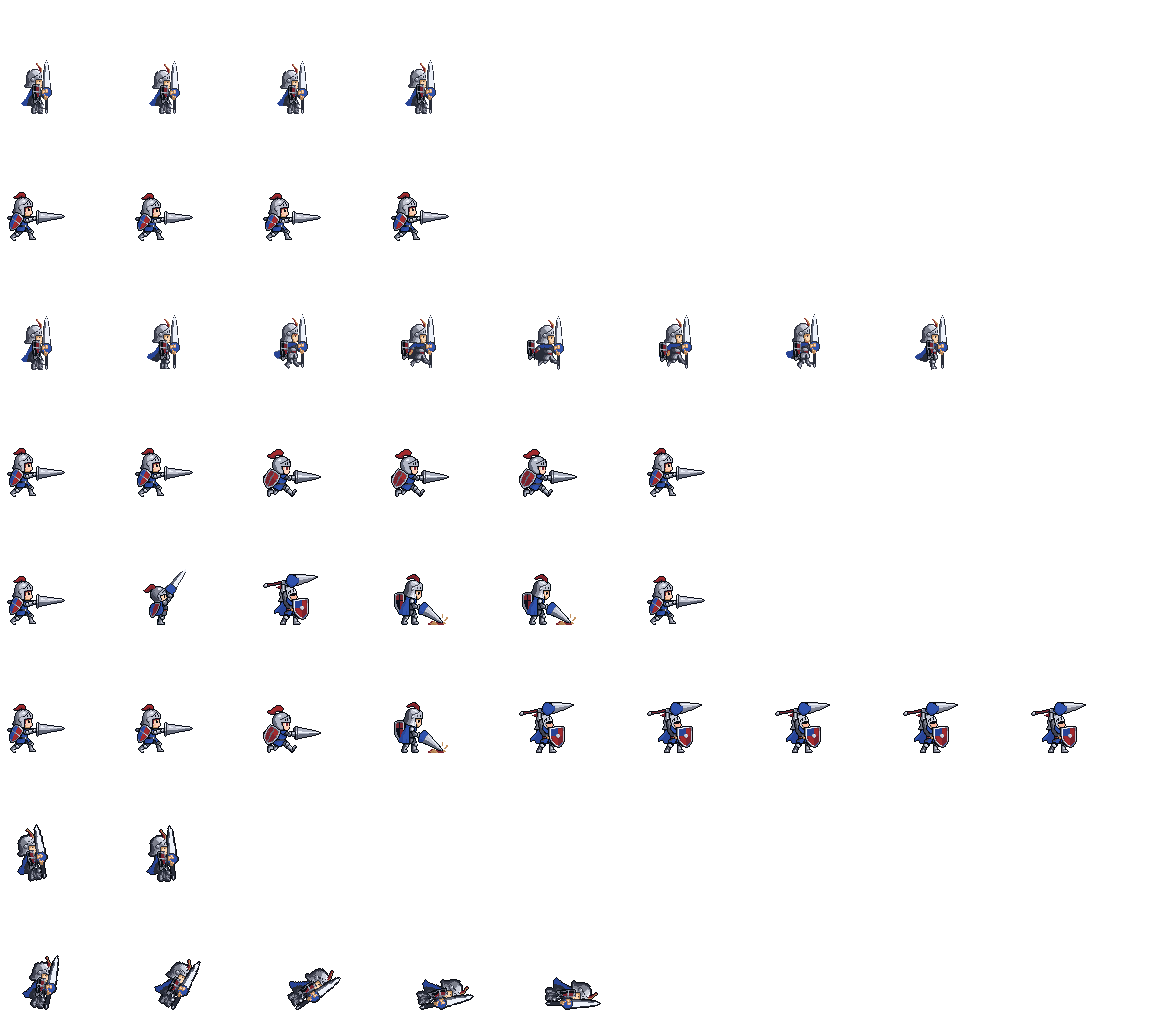
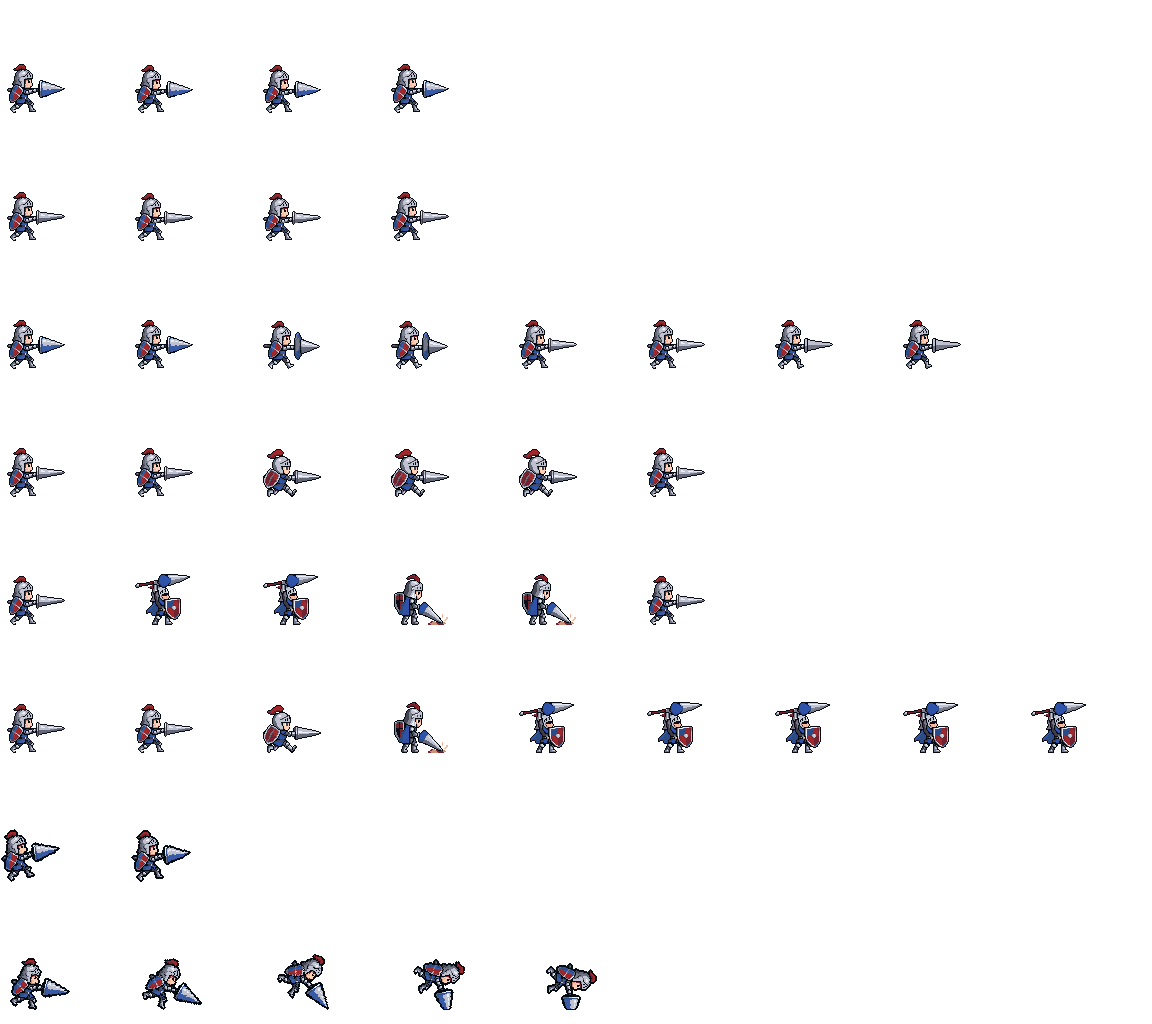
랜서 걷기·평타 굵은 원뿔 랜스로(키 재편집), 천마장군 방패 통일을 평타만으로 (PixelLab 10)

diff --git a/src/sprites/meta.js b/src/sprites/meta.js
@@ -6,7 +6,7 @@ const SHEET_META = {
   archmage: {"w":75,"h":75,"foot":[26,69],"anims":{"idle":{"row":0,"frames":4,"fps":4,"loop":true},"guard":{"row":1,"frames":4,"fps":4,"loop":true},"walk":{"row":2,"frames":8,"fps":10,"loop":true},"atkA":{"row":3,"frames":7,"fps":16,"loop":false,"hit":3},"atkB":{"row":4,"frames":7,"fps":16,"loop":false,"hit":4},"cast":{"row":5,"frames":7,"fps":10,"loop":false,"key":"bowA","val":[-0.2,-0.2,-0.7,-1.4,-1.4,0.7,1.2]},"hurt":{"row":6,"frames":2,"fps":12,"loop":false},"death":{"row":7,"frames":5,"fps":8,"loop":false}},"pts":{"idle":[[47,30,27,33],[47,30,27,33],[47,30,27,34],[47,30,27,34]],"guard":[[47,30,27,34],[47,30,27,34],[47,31,27,34],[47,31,27,34]],"walk":[[52,32,26,34],[49,30,44,33],[45,28,30,31],[37,29,34,30],[33,30,34,28],[39,28,36,29],[44,29,26,31],[49,30,26,33]],"atkA":[[47,30,27,33],[0,23,14,34],[73,38,26,34],[74,48,30,36],[74,50,30,36],[74,50,29,35],[59,31,27,34]],"atkB":[[54,36,25,36],[45,2,34,18],[9,8,23,25],[74,51,30,35],[73,72,39,44],[71,74,37,42],[65,43,28,36]],"cast":[[33,31,33,30],[32,30,32,30],[21,9,24,8],[47,2,34,18],[34,0,32,0],[74,41,29,34],[73,73,41,43]],"hurt":[[45,30,25,33],[46,30,26,33]],"death":[[45,30,25,33],[45,30,12,33],[45,30,15,20],[45,30,16,31],[45,30,24,35]]},"v":"de51523a"},
   archon: {"w":64,"h":64,"foot":[28,59],"anims":{"idle":{"row":0,"frames":2,"fps":3,"loop":true},"walk":{"row":1,"frames":4,"fps":8,"loop":true},"atkA":{"row":2,"frames":6,"fps":12,"loop":false,"hit":2},"cast":{"row":3,"frames":4,"fps":6,"loop":true},"hurt":{"row":4,"frames":2,"fps":12,"loop":false}},"pts":{"idle":[[37,37,37,11],[37,37,37,12]],"walk":[[37,37,42,10],[37,37,42,10],[37,37,42,10],[37,37,42,10]],"atkA":[[37,37,37,11],[37,37,44,6],[37,37,35,19],[37,37,27,24],[37,37,27,24],[37,37,37,11]],"cast":[[37,37,37,11],[37,37,37,12],[37,37,37,11],[37,37,37,13]],"hurt":[[37,37,35,11],[37,37,36,11]]},"v":"8ca85376"},
   blademaster: {"w":64,"h":64,"foot":[28,59],"anims":{"idle":{"row":0,"frames":2,"fps":3,"loop":true},"walk":{"row":1,"frames":4,"fps":8,"loop":true},"atkA":{"row":2,"frames":6,"fps":12,"loop":false,"hit":2},"cast":{"row":3,"frames":6,"fps":8,"loop":true},"hurt":{"row":4,"frames":2,"fps":12,"loop":false}},"pts":{"idle":[[37,37,32,9],[37,37,32,10]],"walk":[[37,37,32,9],[37,37,32,10],[37,37,32,9],[37,37,32,11]],"atkA":[[37,37,32,9],[37,37,40,10],[37,37,30,13],[37,37,34,21],[37,37,34,21],[37,37,32,9]],"cast":[[37,37,32,9],[37,37,32,9],[37,37,31,8],[37,37,31,8],[37,37,32,9],[37,37,32,9]],"hurt":[[37,37,30,9],[37,37,31,9]]},"v":"13776c78"},
-  cavalier: {"w":100,"h":100,"foot":[28,87],"anims":{"idle":{"row":0,"frames":4,"fps":6,"loop":true},"guard":{"row":1,"frames":4,"fps":8,"loop":true},"walk":{"row":2,"frames":8,"fps":10,"loop":true},"atkA":{"row":3,"frames":6,"fps":14,"loop":false,"hit":2},"atkB":{"row":4,"frames":6,"fps":14,"loop":false,"hit":2},"cast":{"row":5,"frames":9,"fps":10,"loop":true,"key":"wa","val":[-1.57,-1.2,-0.8,-0.4,0,0.4,0.8,1.2,1.57],"wrap":false},"hurt":{"row":6,"frames":2,"fps":12,"loop":false},"death":{"row":7,"frames":5,"fps":8,"loop":false}},"pts":{"idle":[[40,72,36,47],[40,73,36,48],[40,73,36,48],[40,72,36,47]],"guard":[[50,69,16,50],[50,69,16,51],[50,69,16,51],[50,69,16,50]],"walk":[[40,72,36,47],[40,71,36,46],[40,70,36,45],[40,71,36,46],[40,72,36,47],[40,71,36,46],[40,70,36,45],[40,71,36,46]],"atkA":[[50,69,16,50],[50,69,16,50],[50,73,17,51],[50,73,17,51],[50,73,17,51],[50,69,16,50]],"atkB":[[50,69,16,50],[44,46,44,44],[48,51,32,48],[49,82,23,48],[49,82,23,48],[50,69,16,50]],"cast":[[50,69,16,50],[50,69,16,50],[50,73,17,51],[49,82,23,48],[48,51,32,48],[48,51,32,48],[48,51,32,48],[48,51,32,48],[48,51,32,48]],"hurt":[[37,69,28,44],[39,71,32,44]],"death":[[45,52,44,46],[56,51,47,49],[66,64,49,56],[69,78,50,65],[66,76,34,63]]},"v":"ad21efbd"},
+  cavalier: {"w":100,"h":100,"foot":[28,87],"anims":{"idle":{"row":0,"frames":4,"fps":6,"loop":true},"guard":{"row":1,"frames":4,"fps":8,"loop":true},"walk":{"row":2,"frames":8,"fps":10,"loop":true},"atkA":{"row":3,"frames":6,"fps":14,"loop":false,"hit":2},"atkB":{"row":4,"frames":6,"fps":14,"loop":false,"hit":2},"cast":{"row":5,"frames":9,"fps":10,"loop":true,"key":"wa","val":[-1.57,-1.2,-0.8,-0.4,0,0.4,0.8,1.2,1.57],"wrap":false},"hurt":{"row":6,"frames":2,"fps":12,"loop":false},"death":{"row":7,"frames":5,"fps":8,"loop":false}},"pts":{"idle":[[50,69,16,50],[50,69,16,51],[50,69,16,51],[50,69,16,50]],"guard":[[50,69,16,50],[50,69,16,51],[50,69,16,51],[50,69,16,50]],"walk":[[50,69,16,50],[50,69,16,50],[49,70,18,51],[49,70,18,51],[50,69,16,50],[50,69,16,50],[50,69,16,50],[50,69,16,50]],"atkA":[[50,69,16,50],[50,69,16,50],[50,73,17,51],[50,73,17,51],[50,73,17,51],[50,69,16,50]],"atkB":[[50,69,16,50],[48,51,32,48],[48,51,32,48],[49,82,23,48],[49,82,23,48],[50,69,16,50]],"cast":[[50,69,16,50],[50,69,16,50],[50,73,17,51],[49,82,23,48],[48,51,32,48],[48,51,32,48],[48,51,32,48],[48,51,32,48],[48,51,32,48]],"hurt":[[46,62,11,48],[48,66,13,48]],"death":[[54,74,23,48],[56,82,35,48],[55,80,45,45],[62,57,40,49],[66,64,44,52]]},"v":"2f80f7b1"},
   champion: {"w":64,"h":64,"foot":[32,58],"anims":{"idle":{"row":0,"frames":4,"fps":6,"loop":true},"guard":{"row":1,"frames":4,"fps":8,"loop":true},"walk":{"row":2,"frames":6,"fps":10,"loop":true},"dash":{"row":3,"frames":2,"fps":12,"loop":true},"atkA":{"row":4,"frames":4,"fps":14,"loop":false,"hit":1},"atkB":{"row":5,"frames":4,"fps":14,"loop":false,"hit":1},"charge":{"row":6,"frames":4,"fps":10,"loop":true},"release":{"row":7,"frames":3,"fps":12,"loop":false,"hit":1},"skillA":{"row":8,"frames":4,"fps":14,"loop":true,"hit":0},"skillB":{"row":9,"frames":4,"fps":14,"loop":false,"hit":1},"awaken":{"row":10,"frames":6,"fps":10,"loop":false},"hurt":{"row":11,"frames":2,"fps":12,"loop":false},"death":{"row":12,"frames":5,"fps":8,"loop":false},"sit":{"row":13,"frames":2,"fps":2,"loop":true}},"pts":{"idle":[[51,40,30,19],[51,41,30,20],[51,41,30,20],[51,40,30,19]],"guard":[[48,41,30,21],[48,42,30,22],[48,42,30,22],[48,41,30,21]],"walk":[[49,38,28,18],[49,40,28,17],[49,40,29,17],[49,41,29,18],[48,41,29,17],[49,40,29,17]],"dash":[[52,39,41,22],[42,27,31,19]],"atkA":[[47,42,29,22],[62,35,30,16],[62,35,30,16],[54,39,31,19]],"atkB":[[53,42,32,20],[62,35,30,17],[62,35,30,17],[54,40,30,20]],"charge":[[53,42,32,20],[51,47,34,20],[47,49,33,18],[46,41,33,18]],"release":[[51,47,34,20],[62,35,30,17],[62,35,30,17]],"skillA":[[62,35,30,16],[54,39,31,19],[62,35,30,17],[54,40,30,20]],"skillB":[[47,49,33,18],[50,18,44,11],[50,18,44,11],[48,41,30,21]],"awaken":[[46,41,33,18],[48,38,33,21],[46,30,32,22],[46,31,32,23],[46,30,32,22],[48,38,33,21]],"hurt":[[51,40,32,21],[52,40,33,21]],"death":[[50,49,32,19],[49,51,34,19],[48,51,34,21],[52,49,37,30],[56,51,39,37]],"sit":[[47,51,29,20],[46,50,28,22]]},"v":"dca567aa"},
   cryomancer: {"w":75,"h":75,"foot":[26,69],"anims":{"idle":{"row":0,"frames":4,"fps":4,"loop":true},"guard":{"row":1,"frames":4,"fps":4,"loop":true},"walk":{"row":2,"frames":8,"fps":10,"loop":true},"atkA":{"row":3,"frames":7,"fps":16,"loop":false,"hit":3},"atkB":{"row":4,"frames":7,"fps":16,"loop":false,"hit":4},"cast":{"row":5,"frames":7,"fps":10,"loop":false,"key":"bowA","val":[-0.2,-0.2,-0.7,-1.4,-1.4,0.7,1.2]},"hurt":{"row":6,"frames":2,"fps":12,"loop":false},"death":{"row":7,"frames":5,"fps":8,"loop":false}},"pts":{"idle":[[43,44,28,33],[43,44,28,33],[43,45,28,34],[43,45,28,34]],"guard":[[43,45,28,34],[43,45,28,34],[43,46,28,34],[43,46,28,34]],"walk":[[45,45,33,34],[44,44,30,31],[42,44,28,30],[37,44,30,31],[35,46,29,33],[38,44,30,31],[41,44,28,31],[44,45,28,32]],"atkA":[[43,44,28,33],[6,37,23,35],[58,41,27,34],[67,46,37,36],[67,46,37,36],[61,52,34,35],[51,46,29,34]],"atkB":[[46,49,29,37],[30,16,30,16],[21,15,23,15],[62,49,35,37],[60,65,33,40],[62,64,33,39],[53,53,30,35]],"cast":[[33,46,27,33],[30,45,28,32],[26,21,25,22],[34,12,30,13],[32,12,32,12],[68,41,31,34],[61,62,33,38]],"hurt":[[41,44,27,33],[42,44,27,33]],"death":[[41,44,27,33],[41,44,16,32],[41,44,23,37],[41,44,20,34],[41,44,20,37]]},"v":"a6f70bb1"},
   deadeye: {"w":75,"h":75,"foot":[33,67],"anims":{"idle":{"row":0,"frames":4,"fps":6,"loop":true},"guard":{"row":1,"frames":4,"fps":8,"loop":true},"walk":{"row":2,"frames":8,"fps":10,"loop":true},"atkA":{"row":3,"frames":8,"fps":14,"loop":false,"hit":5},"atkB":{"row":4,"frames":8,"fps":14,"loop":false,"hit":5},"cast":{"row":5,"frames":4,"fps":10,"loop":true,"key":"pull","val":[0,4.5,7.5,12]},"castUp":{"row":6,"frames":2,"fps":10,"loop":true,"key":"pull","val":[6,12]},"hurt":{"row":7,"frames":2,"fps":12,"loop":false},"death":{"row":8,"frames":5,"fps":8,"loop":false}},"pts":{"idle":[[48,41,40,24],[48,42,40,25],[48,42,40,25],[48,41,40,24]],"guard":[[48,42,40,25],[48,43,40,26],[48,43,40,26],[48,42,40,25]],"walk":[[49,41,30,27],[49,39,30,26],[49,38,30,25],[49,39,30,26],[49,41,30,27],[48,39,30,26],[48,38,30,25],[49,39,30,26]],"atkA":[[48,41,40,24],[47,42,39,23],[46,42,38,23],[44,42,37,23],[44,42,36,23],[44,41,27,27],[44,41,27,27],[48,41,40,24]],"atkB":[[45,43,28,19],[46,51,25,18],[44,51,23,19],[44,51,21,20],[44,51,20,20],[47,49,20,20],[45,44,24,28],[51,33,28,27]],"cast":[[48,41,40,24],[47,42,39,23],[46,42,38,23],[44,42,36,23]],"castUp":[[44,51,23,19],[44,51,20,20]],"hurt":[[46,41,38,24],[47,41,39,24]],"death":[[47,41,39,24],[37,52,21,24],[35,58,11,31],[31,53,2,40],[30,56,7,42]]},"v":"e93e26a3"},
@@ -31,7 +31,7 @@ const SHEET_META = {
   qigongB: {"w":96,"h":96,"foot":[33,87],"noLean":true,"anims":{"idle":{"row":0,"frames":4,"fps":4,"loop":true},"guard":{"row":1,"frames":4,"fps":6,"loop":true},"walk":{"row":2,"frames":4,"fps":6,"loop":true},"dash":{"row":3,"frames":2,"fps":12,"loop":true},"atkA":{"row":4,"frames":7,"fps":16,"loop":false,"hit":2},"atkB":{"row":5,"frames":8,"fps":16,"loop":false,"hit":3},"charge":{"row":6,"frames":4,"fps":10,"loop":true},"release":{"row":7,"frames":3,"fps":12,"loop":false,"hit":1},"skillA":{"row":8,"frames":4,"fps":12,"loop":false},"skillB":{"row":9,"frames":4,"fps":12,"loop":false},"hurt":{"row":10,"frames":2,"fps":12,"loop":false},"death":{"row":11,"frames":5,"fps":8,"loop":false},"sit":{"row":12,"frames":2,"fps":2,"loop":true}},"pts":{"idle":[[43,65,34,42],[43,65,34,42],[43,66,34,43],[43,66,34,43]],"guard":[[50,65,35,45],[50,65,35,45],[50,66,35,46],[50,66,35,46]],"walk":[[50,62,35,42],[50,63,35,43],[56,62,40,40],[56,63,40,41]],"dash":[[50,62,35,42],[56,62,40,40]],"atkA":[[50,65,35,45],[44,67,34,46],[67,66,42,47],[67,66,42,47],[59,64,36,46],[50,63,35,45],[50,63,36,45]],"atkB":[[50,63,35,45],[47,64,32,46],[44,66,31,47],[66,68,41,48],[67,68,42,48],[67,68,41,48],[56,63,36,46],[50,63,35,45]],"charge":[[47,64,32,46],[44,66,31,47],[47,64,32,46],[44,66,31,47]],"release":[[66,68,41,48],[67,68,42,48],[67,68,41,48]],"skillA":[[47,64,32,46],[44,66,31,47],[66,68,41,48],[67,68,42,48]],"skillB":[[47,64,32,46],[44,66,31,47],[44,66,31,47],[47,64,32,46]],"hurt":[[41,65,32,42],[42,65,33,42]],"death":[[41,65,32,42],[34,74,16,41],[42,74,23,57],[47,72,33,67],[46,71,24,67]],"sit":[[42,72,37,68],[42,73,37,69]]},"v":"4eac03e0"},
   ranger: {"w":75,"h":75,"foot":[33,67],"anims":{"idle":{"row":0,"frames":4,"fps":6,"loop":true},"guard":{"row":1,"frames":4,"fps":8,"loop":true},"walk":{"row":2,"frames":8,"fps":10,"loop":true},"atkA":{"row":3,"frames":8,"fps":14,"loop":false,"hit":5},"atkB":{"row":4,"frames":8,"fps":14,"loop":false,"hit":5},"cast":{"row":5,"frames":4,"fps":10,"loop":true,"key":"pull","val":[0,4.5,7.5,12]},"castUp":{"row":6,"frames":2,"fps":10,"loop":true,"key":"pull","val":[6,12]},"hurt":{"row":7,"frames":2,"fps":12,"loop":false},"death":{"row":8,"frames":5,"fps":8,"loop":false}},"pts":{"idle":[[50,43,22,28],[50,44,22,29],[50,44,22,29],[50,43,22,28]],"guard":[[50,44,22,29],[50,44,22,30],[50,44,22,30],[50,44,22,29]],"walk":[[47,49,20,30],[46,48,20,29],[48,46,20,27],[46,48,20,28],[41,44,21,30],[47,48,20,29],[46,47,20,27],[48,46,20,28]],"atkA":[[50,43,22,28],[49,44,22,28],[50,44,20,29],[48,44,19,29],[48,44,18,30],[48,46,20,29],[48,46,20,29],[50,43,22,28]],"atkB":[[46,46,30,26],[46,46,30,26],[46,45,30,27],[45,46,30,27],[45,46,30,27],[46,44,29,26],[48,48,33,28],[48,48,33,28]],"cast":[[50,43,22,28],[49,44,22,28],[50,44,20,29],[48,44,18,30]],"castUp":[[46,45,30,27],[45,46,30,27]],"hurt":[[48,43,20,28],[49,43,21,28]],"death":[[49,43,21,28],[39,44,30,28],[35,58,12,34],[30,57,7,40],[30,58,6,40]]},"v":"b06755ac"},
   siegeMaster: {"w":100,"h":100,"foot":[45,90],"anims":{"idle":{"row":0,"frames":4,"fps":6,"loop":true},"guard":{"row":1,"frames":4,"fps":8,"loop":true},"walk":{"row":2,"frames":8,"fps":10,"loop":true},"atkA":{"row":3,"frames":8,"fps":14,"loop":false,"hit":3},"atkB":{"row":4,"frames":8,"fps":14,"loop":false,"hit":4},"cast":{"row":5,"frames":2,"fps":10,"loop":true,"key":"pull","val":[0,4.5]},"castUp":{"row":6,"frames":2,"fps":10,"loop":true,"key":"pull","val":[6,12]},"hurt":{"row":7,"frames":2,"fps":12,"loop":false},"death":{"row":8,"frames":5,"fps":8,"loop":false}},"pts":{"idle":[[61,69,46,48],[61,69,46,48],[61,69,46,48],[61,69,46,48]],"guard":[[61,69,46,48],[61,70,46,49],[61,70,46,49],[61,69,46,48]],"walk":[[72,64,46,48],[72,64,46,47],[72,63,46,47],[72,63,46,47],[72,64,46,48],[72,64,46,47],[72,63,46,47],[72,63,46,47]],"atkA":[[61,69,46,48],[62,66,47,48],[62,66,47,48],[59,66,44,48],[60,66,45,48],[61,66,45,48],[61,66,46,48],[61,69,46,48]],"atkB":[[65,67,44,49],[64,58,43,49],[58,64,41,51],[55,72,41,53],[55,66,38,51],[59,65,40,51],[61,63,41,49],[62,64,44,48]],"cast":[[61,69,46,48],[62,66,47,48]],"castUp":[[64,58,43,49],[55,72,41,53]],"hurt":[[59,69,44,48],[60,69,45,48]],"death":[[60,69,45,48],[52,76,34,48],[48,76,23,51],[44,73,13,61],[43,79,23,63]]},"v":"d228c061"},
-  skyGeneral: {"w":100,"h":100,"foot":[28,87],"anims":{"idle":{"row":0,"frames":4,"fps":6,"loop":true},"guard":{"row":1,"frames":4,"fps":8,"loop":true},"walk":{"row":2,"frames":8,"fps":10,"loop":true},"atkA":{"row":3,"frames":6,"fps":14,"loop":false,"hit":2},"atkB":{"row":4,"frames":6,"fps":14,"loop":false,"hit":2},"cast":{"row":5,"frames":9,"fps":10,"loop":true,"key":"wa","val":[-1.57,-1.2,-0.8,-0.4,0,0.4,0.8,1.2,1.57],"wrap":false},"hurt":{"row":6,"frames":2,"fps":12,"loop":false},"death":{"row":7,"frames":5,"fps":8,"loop":false}},"pts":{"idle":[[48,67,32,42],[48,68,32,42],[48,68,32,42],[48,67,32,42]],"guard":[[49,72,22,48],[49,73,22,48],[49,73,22,48],[49,72,22,48]],"walk":[[48,67,32,42],[48,70,32,41],[47,82,32,41],[46,76,32,41],[46,80,32,42],[47,81,32,41],[47,73,27,48],[48,69,27,48]],"atkA":[[49,72,22,48],[49,72,22,48],[49,72,22,48],[49,72,22,48],[49,72,22,48],[49,72,22,48]],"atkB":[[49,72,22,48],[49,45,48,44],[49,45,48,44],[44,82,24,48],[44,82,24,48],[49,72,22,48]],"cast":[[49,72,22,48],[49,72,22,48],[49,72,22,48],[49,72,22,48],[44,82,24,48],[44,82,24,48],[44,82,24,48],[44,82,24,48],[44,82,24,48]],"hurt":[[46,82,27,39],[47,71,32,38]],"death":[[53,63,37,36],[59,44,46,37],[71,58,57,46],[74,74,36,50],[73,79,41,52]]},"v":"312606b1"},
+  skyGeneral: {"w":100,"h":100,"foot":[28,87],"anims":{"idle":{"row":0,"frames":4,"fps":6,"loop":true},"guard":{"row":1,"frames":4,"fps":8,"loop":true},"walk":{"row":2,"frames":8,"fps":10,"loop":true},"atkA":{"row":3,"frames":6,"fps":14,"loop":false,"hit":2},"atkB":{"row":4,"frames":6,"fps":14,"loop":false,"hit":2},"cast":{"row":5,"frames":9,"fps":10,"loop":true,"key":"wa","val":[-1.57,-1.2,-0.8,-0.4,0,0.4,0.8,1.2,1.57],"wrap":false},"hurt":{"row":6,"frames":2,"fps":12,"loop":false},"death":{"row":7,"frames":5,"fps":8,"loop":false}},"pts":{"idle":[[48,67,27,49],[48,68,27,50],[48,68,27,50],[48,67,27,49]],"guard":[[49,72,22,48],[49,73,22,48],[49,73,22,48],[49,72,22,48]],"walk":[[48,67,27,49],[48,70,27,48],[47,82,27,48],[46,76,27,48],[46,80,27,49],[47,81,27,48],[47,73,27,48],[48,69,27,48]],"atkA":[[49,72,22,48],[49,72,22,48],[49,72,22,48],[49,72,22,48],[49,72,22,48],[49,72,22,48]],"atkB":[[49,72,22,48],[45,48,44,46],[45,48,44,46],[44,82,24,48],[44,82,24,48],[49,72,22,48]],"cast":[[45,48,44,46],[45,48,44,46],[45,48,44,46],[49,72,22,48],[44,82,24,48],[44,82,24,48],[44,82,24,48],[44,82,24,48],[44,82,24,48]],"hurt":[[46,82,22,47],[47,71,24,46]],"death":[[53,63,33,42],[58,65,41,42],[61,57,50,48],[66,70,36,50],[66,76,41,52]]},"v":"97412bbb"},
   squire: {"w":64,"h":64,"foot":[28,59],"anims":{"idle":{"row":0,"frames":2,"fps":3,"loop":true},"walk":{"row":1,"frames":4,"fps":8,"loop":true},"atkA":{"row":2,"frames":7,"fps":12,"loop":false,"hit":2},"cast":{"row":3,"frames":6,"fps":8,"loop":true},"hurt":{"row":4,"frames":2,"fps":12,"loop":false}},"pts":{"idle":[[37,37,30,23],[37,37,30,24]],"walk":[[37,37,30,23],[37,37,30,23],[37,37,30,23],[37,37,30,23]],"atkA":[[37,37,30,23],[37,37,36,8],[37,37,30,20],[37,37,34,22],[37,37,34,22],[37,37,30,24],[37,37,30,23]],"cast":[[37,37,30,23],[37,37,31,18],[37,37,31,18],[37,37,43,6],[37,37,43,6],[37,37,31,18]],"hurt":[[37,37,28,23],[37,37,29,23]]},"v":"5d7633c8"},
   striker: {"w":64,"h":64,"foot":[32,58],"anims":{"idle":{"row":0,"frames":4,"fps":6,"loop":true},"guard":{"row":1,"frames":4,"fps":8,"loop":true},"walk":{"row":2,"frames":6,"fps":10,"loop":true},"dash":{"row":3,"frames":2,"fps":12,"loop":true},"atkA":{"row":4,"frames":4,"fps":14,"loop":false,"hit":1},"atkB":{"row":5,"frames":4,"fps":14,"loop":false,"hit":1},"charge":{"row":6,"frames":4,"fps":10,"loop":true},"release":{"row":7,"frames":3,"fps":12,"loop":false,"hit":1},"skillA":{"row":8,"frames":4,"fps":14,"loop":true,"hit":0},"skillB":{"row":9,"frames":4,"fps":14,"loop":false,"hit":1},"hurt":{"row":10,"frames":2,"fps":12,"loop":false},"death":{"row":11,"frames":5,"fps":8,"loop":false},"sit":{"row":12,"frames":2,"fps":2,"loop":true}},"pts":{"idle":[[52,40,33,22],[52,41,33,23],[52,41,33,23],[52,40,33,22]],"guard":[[51,37,33,22],[51,38,33,23],[51,38,33,23],[51,37,33,22]],"walk":[[51,38,33,21],[51,40,33,20],[51,40,34,20],[51,41,34,21],[50,41,34,20],[51,40,33,19]],"dash":[[52,48,44,24],[40,33,34,23]],"atkA":[[50,38,32,23],[62,35,32,20],[62,35,32,20],[54,39,33,24]],"atkB":[[53,42,35,23],[61,34,33,21],[61,34,33,21],[54,40,34,24]],"charge":[[53,42,35,23],[51,47,37,23],[47,49,36,22],[46,41,36,22]],"release":[[51,47,37,23],[61,34,33,21],[61,34,33,21]],"skillA":[[62,35,32,20],[54,39,33,24],[61,34,33,21],[54,40,34,24]],"skillB":[[47,49,36,22],[50,17,44,9],[50,17,44,9],[51,37,33,22]],"hurt":[[51,40,33,24],[52,40,34,24]],"death":[[50,49,35,23],[49,51,36,24],[48,51,36,25],[52,49,40,35],[56,51,41,41]],"sit":[[47,51,34,22],[46,50,35,24]]},"v":"42b8a32e"},
   strikerB: {"w":96,"h":96,"foot":[33,87],"noLean":true,"anims":{"idle":{"row":0,"frames":4,"fps":4,"loop":true},"guard":{"row":1,"frames":4,"fps":6,"loop":true},"walk":{"row":2,"frames":4,"fps":6,"loop":true},"dash":{"row":3,"frames":2,"fps":12,"loop":true},"atkA":{"row":4,"frames":7,"fps":16,"loop":false,"hit":2},"atkB":{"row":5,"frames":8,"fps":16,"loop":false,"hit":3},"charge":{"row":6,"frames":4,"fps":10,"loop":true},"release":{"row":7,"frames":3,"fps":12,"loop":false,"hit":1},"skillA":{"row":8,"frames":4,"fps":12,"loop":false},"skillB":{"row":9,"frames":4,"fps":12,"loop":false},"hurt":{"row":10,"frames":2,"fps":12,"loop":false},"death":{"row":11,"frames":5,"fps":8,"loop":false},"sit":{"row":12,"frames":2,"fps":2,"loop":true}},"pts":{"idle":[[47,69,33,43],[47,69,33,43],[47,70,33,44],[47,70,33,44]],"guard":[[51,64,35,47],[51,64,35,47],[51,65,35,48],[51,65,35,48]],"walk":[[49,59,35,36],[49,60,35,37],[50,63,34,39],[50,64,34,40]],"dash":[[49,59,35,36],[50,63,34,39]],"atkA":[[51,64,35,47],[52,63,35,48],[67,66,36,49],[67,66,36,48],[62,66,35,48],[51,64,35,47],[50,64,35,47]],"atkB":[[50,64,35,47],[45,64,34,47],[63,66,40,48],[71,67,44,48],[71,67,44,48],[64,65,42,48],[52,63,36,47],[50,64,35,47]],"charge":[[45,64,34,47],[45,64,34,47],[50,64,35,47],[45,64,34,47]],"release":[[63,66,40,48],[71,67,44,48],[64,65,42,48]],"skillA":[[67,66,36,49],[71,67,44,48],[67,66,36,48],[71,67,44,48]],"skillB":[[45,64,34,47],[63,66,40,48],[71,67,44,48],[71,67,44,48]],"hurt":[[45,69,31,43],[46,69,32,43]],"death":[[45,69,31,43],[38,65,16,42],[43,71,19,52],[47,67,27,58],[45,68,27,59]],"sit":[[43,74,24,44],[42,73,24,45]]},"v":"07d173a5"},

diff --git a/dev/spear/key_assemble.py b/dev/spear/key_assemble.py
@@ -14,11 +14,13 @@ from wpn import line_fit
 SEQ = {'default': [4, 1, 2, 3, 3, 4]}   # 원본(정지 그림)은 키와 인상이 달라 뺀다 — 마무리 키(대기 자세)로 시작·끝 (용황 시험 교훈)
 # 용황: 합격 정지 그림(검은 머리)과 pixen 키(금발) 인상이 달라 원본을 빼고, 잘 나온 찌르기 키2 를 새 기준(dragonlord-key2-src64)으로 재편집한 대기·준비를 쓴다
 #  (검수 k1 3.00: 얼굴·머리색 튐, 준비 키 발치 꼬리 모양). 재편집 '들기'는 창이 두 자루라 안 씀
-SEQ_CLS = {'cavalier': {'thrust': [2, 2, 3, 3, 3, 2], 'slam': [('thrust', 2), 1, 2, 3, 3, ('thrust', 2)]},   # 2026-10-18 랜스가 칼처럼 → 굵은 원뿔 랜스로 재편집한 키(찌르기 2·3, 내리찍기 2·3) 위주
+SEQ_CLS = {'cavalier': {'thrust': [2, 2, 3, 3, 3, 2], 'slam': [('thrust', 2), 2, 2, 3, 3, ('thrust', 2)]},   # 들기 키1(가는 랜스) 뺌 — 재편집 들기는 몸이 돌아서 못 씀   # 2026-10-18 랜스가 칼처럼 → 굵은 원뿔 랜스로 재편집한 키(찌르기 2·3, 내리찍기 2·3) 위주
            'skyGeneral': {'thrust': ['key-thrust-4', 'key-lunge1', 'key-lunge2', 'key-lunge2', 'key-lunge1', 'key-thrust-4'],   # 찌르기 키2·3 손이 보호대 뒤에 가려 떠 보임 → 키4 기준 재편집 2장
                            'slam': ['key-thrust-4', 1, 1, 3, 3, 'key-thrust-4']},   # 내리찍기 키2·4 안 옴 → 들기 반복, 마무리는 찌르기 키4
            'dragonlord': {'thrust': ['key-ready', 'key-windup', 'dragonlord-key2-src64', 3, 3, 'key-ready'],
                           'slam': ['key-ready', 2, 2, 3, 3, 'key-ready']}}
+# 걷기를 키 자세로 바꾸는 직업 (2026-10-18 랜서: 예전 걷기 랜스가 가늘어 칼처럼) — 대기도 새 걷기 첫 장을 들썩여 다시 만든다
+WALK_KEYS = {'cavalier': ['key-walkL-1', 'key-walkL-1', 'key-walkL-2', 'key-walkL-2', 'key-walkL-3', 'key-walkL-3', 'key-walkL-4', 'key-walkL-4']}   # 랜스를 허리 높이로 앞에 겨눈 걷기 (세워 든 판은 칼처럼 읽혔다)
 WALK_DROP = {'warlord': [4, 6], 'dragoon': [2]}                      # 검사 세션 점검: 전쟁군주 walk5·7, 용기병 walk3 (1부터 센 번호)
 
 
@@ -41,6 +43,19 @@ def to_cell(cls, im):
     S, (fx, fy) = B.CELL[cls]; bb = im.getbbox(); P = im.load()
     cx = 32                       # 가로는 64칸 가운데 고정 (pixen 이 캐릭터 자리를 대체로 지킨다 — 발 구간으로 재면 돌진·타격 자세에서 몸이 칸 밖으로 밀렸다)
     o = Image.new('RGBA', (S, S)); o.alpha_composite(im, (fx - cx, fy - (bb[3] - 1))); return o
+
+
+def silver_lance(im):
+    """몸 앞쪽(가운데 +6칸 밖) 밝은 하늘색 칸 → 같은 밝기의 은색 (재편집 걷기 키 중 원뿔이 하늘색으로 나온 장이 있다). 파란 보호대(어두운 파랑)는 둔다"""
+    P = im.load(); W, H = im.size
+    pts = [(x, y) for y in range(H) for x in range(W) if P[x, y][3]]
+    if not pts: return im
+    xs = sorted(x for x, _ in pts); xm = xs[len(xs) // 2]
+    for x, y in pts:
+        r, g, b, a = P[x, y]
+        if x > xm + 6 and b > r + 30 and (r + g + b) / 3 > 120:
+            l = round(0.3 * r + 0.59 * g + 0.11 * b); P[x, y] = (l, min(255, l + 4), min(255, l + 14), a)
+    return im
 
 
 def wpn_angle(im):
@@ -69,6 +84,12 @@ def run(cls):
             im = key_img(cls, atk, k)
             if im is None: im = key_img(cls, atk, 'src')
             f = to_cell(cls, im); f.save(os.path.join(dst, f'{row}-{n}.png')); cand.append((wpn_angle(f), f))
+    if cls in WALK_KEYS:
+        for p in glob.glob(os.path.join(dst, 'walk-*.png')) + glob.glob(os.path.join(dst, 'idle-*.png')): os.remove(p)
+        ws = [silver_lance(to_cell(cls, key_img(cls, None, k))) for k in WALK_KEYS[cls]]
+        for i, im in enumerate(ws): im.save(os.path.join(dst, f'walk-{i}.png'))
+        up = B.bob(ws[0], 112 - 18, 1)
+        for i, im in enumerate((ws[0], up, up, ws[0])): im.save(os.path.join(dst, f'idle-{i}.png'))
     if cls in WALK_DROP:
         ws = sorted(glob.glob(os.path.join(dst, 'walk-*.png')), key=lambda p: int(p.rsplit('-', 1)[1][:-4]))
         keep = [Image.open(p).convert('RGBA') for i, p in enumerate(ws) if i not in WALK_DROP[cls]]

diff --git a/dev/spear/fix_lance_shield.py b/dev/spear/fix_lance_shield.py
@@ -11,6 +11,7 @@ from wpn import line_fit
 OUT, SH, MID, HI = (40, 44, 56), (96, 104, 124), (162, 170, 188), (236, 240, 248)
 hls = lambda c: colorsys.rgb_to_hls(c[0] / 255, c[1] / 255, c[2] / 255)
 ROWS = ('atkA', 'atkB', 'cast', 'walk', 'idle')
+SHIELD_ROWS = ('atkA', 'atkB', 'cast')   # 방패 통일은 평타·시전만 — 걷기는 방패가 작게 보여 덩어리를 잘못 잡고 얼굴 위에 큰 방패를 얹었다
 
 
 def comps(pts):
@@ -118,7 +119,7 @@ def fix_shield(im, ref):
 
 if __name__ == '__main__':
     what, cls = sys.argv[1], sys.argv[2]
-    fs = [f for r in ROWS for f in glob.glob(os.path.join(HERE, 'frames', cls, f'{r}-*.png'))]
+    fs = [f for r in (ROWS if what == 'lance' else SHIELD_ROWS) for f in glob.glob(os.path.join(HERE, 'frames', cls, f'{r}-*.png'))]
     ref = ref_shield(cls)[0] if what == 'shield' else None
     n = 0
     for f in fs:

diff --git a/dev/spear/plx.py b/dev/spear/plx.py
@@ -9,7 +9,7 @@ sys.path.insert(0, os.path.join(HERE, '..', 'pixellab'))
 from pl import call
 
 CAP = 170          # 로드맵 승인: 원형 마네킹 usage 11 + 기준 그림 정리 직업당 1회 7 (2026-10-17) + v11 3등신 재정리 4 (2026-10-17, 재시도 0) + v12 얼굴 투구 2 (2026-10-17, 재시도 0) + 관절 애니 시험 4 (창기사 pixen 중립 1 + 찌르기 8f 3, 2026-10-17, 재시도 0) + 나머지 애니 31 (2026-10-17, 재시도 0) + 할버디어 평타 재생성 4 (2026-10-17, 재시도 0) + 3차 3종·할버디어 재도전 31 (2026-10-17, 재시도 0) + 할버디어 빈손 재생성 최대 8 (2026-10-17) + 무기·모션 일치 재작업 최대 76 (2026-10-18)
-FLOOR = 300
+FLOOR = 50            # 2026-10-18 로드맵(사용자 "픽셀랩 써라"): 바닥 300 → 50
 LOG = os.path.join(HERE, 'usage.md')
 STATE = os.path.join(HERE, 'usage.json')
 

diff --git a/dev/spear/spear_keys.py b/dev/spear/spear_keys.py
@@ -37,7 +37,7 @@ POSE = {
              'recovering to a ready stance, holding the halberd upright beside the body'],
 }
 ATK = {c: ('sweep', 'chop') if c in ('halberdier', 'warlord') else ('thrust', 'slam') for c in PIC}
-FLOOR_STOP = 310          # 2026-10-18 로드맵: 380 → 310
+FLOOR_STOP = 50          # 2026-10-18 로드맵: 310 → 50
 
 
 def src(cls):

diff --git a/docs/specs/legacy-class-sheets.md b/docs/specs/legacy-class-sheets.md
@@ -244,6 +244,7 @@
 - 2026-10-18 창기사 계열 무기·모션 일치 재작업 (사용자 "창기사쪽도 모션이 무기랑 안맞는애가 있엇어", 로드맵 승인 최대 76, 사용 47, 누계 141/180): 검사 12단계 B 방식 — 합격 정지 그림(무기 든 채)을 pixen 키 자세 4개 × 평타 2종으로 편집해 모델이 무기까지 같이 그린 프레임만 쓴다(`spear_keys.py`, `key_assemble.py`, 코드 덧그리기 없음). 6종 교체·합격: 용황 3.57(1차 3.00 — 원본과 키의 인상 차이 → 잘 나온 키를 새 기준으로 재편집 3) · 창기사 4.00 · 용기병 3.71 · 할버디어 3.71 · 랜서 3.71 · 전쟁군주 3.57. 걷기는 지금 판, 지적 프레임만 뺌(용기병 1, 전쟁군주 2). **천마장군은 계정 잔량이 멈춤 기준 380 에 닿아 미적용(지금 판)**. pixen 이 그림 없이 비용만 든 호출 2회(용황 내리찍기 키4, 용기병 내리찍기 키2). 0.78 축소는 `rescale.py` 가 원본 폴더 전체를 다시 만들므로 다른 계열 시트 변경은 되돌리고 6종만 커밋.
 - 2026-10-18 천마장군 평타 키 자세 교체 (사용자 "남은일도 지금 처리해", 멈춤 기준 310, usage 10, 누계 155): 키 8 중 내리찍기 2·4 안 옴 → 1차 3.29(오지 않은 키 자리에 예전 정지 그림이 들어가 다른 캐릭터로 보임, 찌르기 키2·3 손이 보호대 뒤에 가려 떠 보임) → 찌르기 키4 를 기준으로 돌진 2장 재편집 → **3.71 pass**. 창기사 계열 7종 평타 모두 키 자세(모델이 무기까지 같이 그림)로 교체 완료. 교훈: 오지 않은 키는 원본 정지 그림으로 메우지 말고 같은 편집 묶음의 다른 키로 메운다.
 - 2026-10-18 창기사 남은 흠 2건 (사용자 "개선해", main 0.27.0 위 브랜치 impl-spear-fix, usage 4, 누계 159): ① 천마장군 방패 면이 프레임마다 바뀜 → `fix_lance_shield.py shield`: 금테 정면 방패 한 장(atkA-2)을 기준으로 다른 프레임 방패 덩어리를 지우고 같은 방패를 얹음(무료, 33장) → 3.71 pass. ② 랜서 랜스가 칼처럼 읽힘 → 스크립트(보호대 기준 원뿔 다시 그리기)는 랜스를 확실히 못 찾아(파란 서코트·투구 가장자리를 랜스로 잡음) 접고, 칼 같던 키 4장을 '굵은 원뿔 기병 랜스, 칼 아님, 코등이 없음' 설명으로 pixen 재편집(4, 설명 500자 제한 주의) → 평타 순서를 굵은 랜스 키 위주로 → 3.57 pass. 남은 흠: 랜서 평타B 들기 2장·걷기 랜스는 여전히 가늘다.
+- 2026-10-18 랜서·천마장군 추가 수리 (사용자 "픽셀랩 써라", 바닥 50, usage 10, 누계 169): 랜서 걷기를 키 자세로 교체 — 세워 든 판(4)은 다시 칼처럼 읽혀 버리고, 굵은 원뿔이 나온 찌르기 키2 를 기준으로 '랜스를 허리 높이로 앞에 겨눈 걷기' 4장(4) + 하늘색 원뿔 은색 보정(`key_assemble.silver_lance`) → 랜서 3.57 pass(걷기 포함 굵은 원뿔). 들기 재편집(1)은 몸이 돌아서 못 씀. 천마장군: 들기 재편집(1) 반영, 방패 통일을 평타·시전 줄로 한정(걷기에 적용하면 얼굴 위에 방패를 얹음) → 3.71 pass. 남은 흠(선택): 랜서 파란 보호대가 일부 프레임에만, 걷기 앞 2장 원뿔 파랑, 천마장군 걷기는 예전 생성(방패 작음).
 - 2026-10-18: **2단계 애니 합격** (pixen 키 자세 12, 승인 13 안): 성기사 시전 3.86/3.86, 검사 평타 3.71/3.86, 검사 시전 3.86/3.86 (sonnet 비평 2개). `anim_build.py`(발 맞춤·팔레트 고정, 검사 43색→22색, 성기사 cast1 좌우 반전), `anim/run_keys2.sh`(설명 500자 검사·usage>1 멈춤). 검사 평타는 skeleton 대신 키 자세(비용·성공률). 계열 누적 56. **검성·대검전사 재디자인 합격**: 검성 14차 97번 + `fix_bm14.py` 3.71/4.0 (IoU 0.673 — 목표 0.6 못 맞춤), 대검전사 15차 37번(init 에 대검 합성 `design.py init_gs`) 3.57/3.86 (IoU 0.558). 색깔놀이 검사 `sil_iou.py` 는 발 기준 정렬로 고침.
 
 - 2026-10-18: 3단계 (로드맵 승인 14, 모두 usage 1.0, 계열 누적 70). 검성 평타 4.0/3.86·시전 4.0/3.57, 대검전사 시전 3.57/3.57 합격. **대검전사 평타 미달**: key3 칼끝 분리 → 조각 지우기 실패 → 짧은 판(타격 = 시전 3번) 3.71/3.29. 4종 시트 조립 `build_sheets.py` → `src/sprites/{paladin,swordsman,blademaster,greatswordsman}.png/.json` (idle 2·walk 4 임시 들썩임·atkA 7(복귀 보간)·cast 6·hurt 2, 64칸, 발 (28,59)), meta.js 다시 묶음. `?sheetsOn=` 로 4종 모두 실림 확인(heroTop 71~74). SHEET_ON 은 false 그대로. 남은 일: 대검전사 평타 내려찍기 다시 편집(1~2), 걷기 애니(4종), 성기사 평타 칼 길이·후광.

diff --git a/dev/spear/usage.md b/dev/spear/usage.md
@@ -116,3 +116,13 @@
 | 110 | cavalier | `/edit-image-pixen` | key-slam-2: same young chibi cavalry lancer knight with a red plume helm | 1.0 | 157.0 | 316.0 |
 | 111 | cavalier | `/edit-image-pixen` | key-thrust-3: same chibi cavalry lancer knight, red plume helmet, blue sur | 1.0 | 158.0 | 314.0 |
 | 112 | cavalier | `/edit-image-pixen` | key-slam-3: same chibi cavalry lancer knight, red plume helmet, blue sur | 1.0 | 159.0 | 311.0 |
+| 113 | cavalier | `/edit-image-pixen` | key-slam-1: same chibi cavalry lancer knight, red plume helmet, blue sur | 1.0 | 160.0 | 307.0 |
+| 114 | cavalier | `/edit-image-pixen` | key-walk-1: same chibi cavalry lancer knight, red plume helmet, blue sur | 1.0 | 161.0 | 307.0 |
+| 115 | cavalier | `/edit-image-pixen` | key-walk-2: same chibi cavalry lancer knight, red plume helmet, blue sur | 1.0 | 162.0 | 303.0 |
+| 116 | cavalier | `/edit-image-pixen` | key-walk-3: same chibi cavalry lancer knight, red plume helmet, blue sur | 1.0 | 163.0 | 299.0 |
+| 117 | cavalier | `/edit-image-pixen` | key-walk-4: same chibi cavalry lancer knight, red plume helmet, blue sur | 1.0 | 164.0 | 296.0 |
+| 118 | skyGeneral | `/edit-image-pixen` | key-slam-1: same chibi sky general knight, white and gold winged helmet, | 1.0 | 165.0 | 296.0 |
+| 119 | cavalier | `/edit-image-pixen` | key-walkL-1: same chibi cavalry lancer knight, red plume helmet, blue sur | 1.0 | 166.0 | 291.0 |
+| 120 | cavalier | `/edit-image-pixen` | key-walkL-2: same chibi cavalry lancer knight, red plume helmet, blue sur | 1.0 | 167.0 | 287.0 |
+| 121 | cavalier | `/edit-image-pixen` | key-walkL-3: same chibi cavalry lancer knight, red plume helmet, blue sur | 1.0 | 168.0 | 286.0 |
+| 122 | cavalier | `/edit-image-pixen` | key-walkL-4: same chibi cavalry lancer knight, red plume helmet, blue sur | 1.0 | 169.0 | 286.0 |
